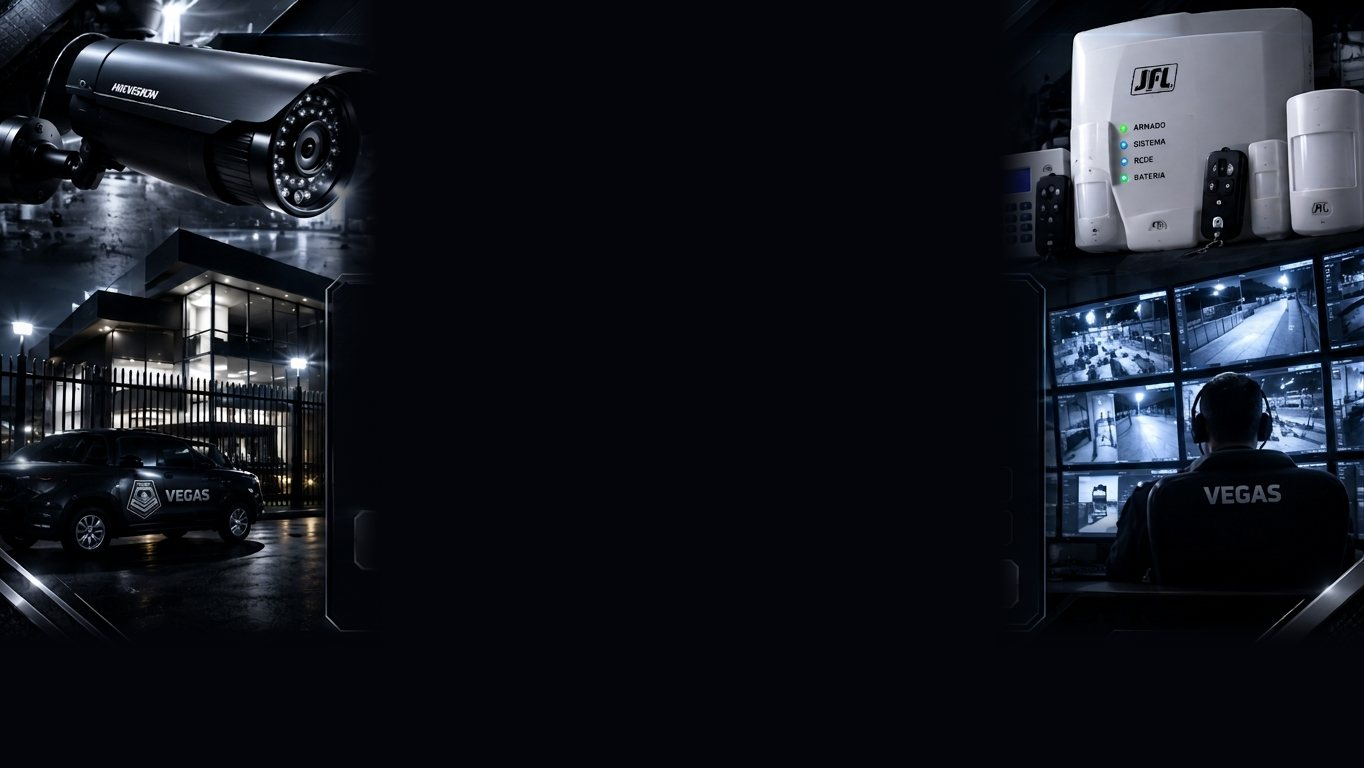
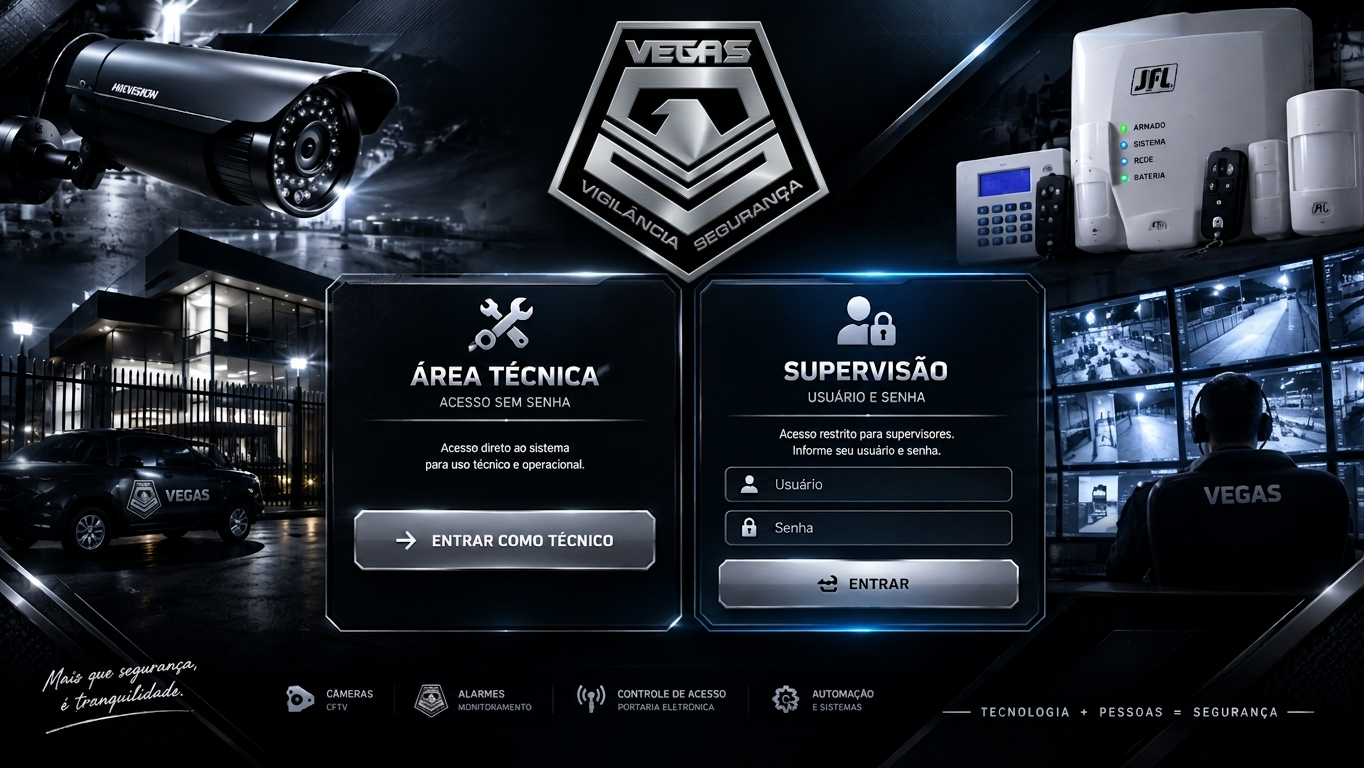
fundo

diff --git a/css/style.css b/css/style.css
@@ -904,3 +904,104 @@ html.is-saving::after {
   .lx__lema { justify-self: center; font-size: .62rem; letter-spacing: .16em; }
 }
 .lx__lema { white-space: nowrap; }
+
+/* =========================================================
+   LOGIN v2 — arte inteira na tela larga + cartões brilhantes
+   ========================================================= */
+/* ---- Tela larga: a arte é a tela (1364 × 768) ---- */
+.lxa {
+  min-height: 100vh; min-height: 100dvh; display: grid; place-items: center; overflow: hidden; position: relative;
+  background: #03050a;
+}
+.lxa::before { /* preenche as sobras da tela com a própria arte desfocada */
+  content: ""; position: absolute; inset: -40px; background: url("../assets/login-fundo.jpg") center / cover no-repeat;
+  filter: blur(26px) brightness(.45) saturate(1.1); transform: scale(1.08);
+}
+.lxa__stage {
+  --W: 1364; --H: 768;
+  position: relative; z-index: 1;
+  width: min(100vw, calc(100dvh * 1364 / 768)); width: min(100vw, calc(100vh * 1364 / 768));
+  aspect-ratio: 1364 / 768;
+  background: url("../assets/login-fundo.jpg") center / 100% 100% no-repeat;
+  box-shadow: 0 0 80px rgba(0,0,0,.8);
+  container-type: inline-size;
+  animation: rise .5s var(--ease) both;
+}
+@supports (height: 100dvh) { .lxa__stage { width: min(100vw, calc(100dvh * 1364 / 768)); } }
+/* posições em % da arte: left = x/1364, top = y/768 */
+.lxa-hot, .lxa-in, .lxa-eye, .lxa-cont { position: absolute; }
+.lxa-hot {
+  display: flex; align-items: center; justify-content: center; gap: .5em;
+  border: 0; padding: 0; margin: 0; background: transparent; cursor: pointer; border-radius: .45cqw;
+  transition: background .2s, box-shadow .2s; color: #fff; font: 700 1.05cqw/1 var(--font-display); text-transform: uppercase; letter-spacing: .05em;
+}
+.lxa-hot:hover, .lxa-hot:focus-visible {
+  background: rgba(255,255,255,.14); outline: none;
+  box-shadow: 0 0 0 1px rgba(255,255,255,.7), 0 0 1.6cqw rgba(120,170,255,.75), 0 0 3.5cqw rgba(47,125,255,.45);
+}
+.lxa-hot:active { background: rgba(255,255,255,.22); }
+.lxa-hot[disabled] { background: rgba(10,13,19,.9); box-shadow: 0 0 0 1px rgba(255,255,255,.5); cursor: default; }
+.lxa-hot .spinner { width: 1.3cqw; height: 1.3cqw; }
+.lxa-hot--tec { left: 26.03%; top: 66.54%; width: 21.99%; height: 7.55%; }
+.lxa-hot--ent { left: 52.79%; top: 72.92%; width: 21.84%; height: 6.25%; }
+.lxa-in {
+  height: 3.39%; border: 0; outline: none; border-radius: .25cqw;
+  background: linear-gradient(180deg, rgb(7,15,24), rgb(9,20,31));
+  color: #eef3f9; font: 500 1.02cqw/1 var(--font-body); padding: 0 .75cqw; letter-spacing: .01em;
+}
+.lxa-in::placeholder { color: #c4ccd6; opacity: 1; }
+.lxa-in:focus { box-shadow: 0 0 0 1px rgba(160,195,255,.8), 0 0 1.2cqw rgba(47,125,255,.55); }
+.lxa-in--user { left: 56.16%; top: 61.33%; width: 17.6%; }
+.lxa-in--pass { left: 56.16%; top: 66.93%; width: 15.2%; }
+.lxa-eye {
+  left: 71.5%; top: 66.93%; width: 2.3%; height: 3.39%; border: 0; padding: 0; cursor: pointer; border-radius: .25cqw;
+  background: rgb(8,17,27); color: #9fb0c4; display: grid; place-items: center;
+}
+.lxa-eye .icon { width: 1.15cqw; height: 1.15cqw; }
+.lxa-eye:hover { color: #fff; }
+.lxa-cont {
+  left: 26.03%; top: 75.6%; width: 21.99%; height: 3.6%; border: 0; background: transparent; cursor: pointer;
+  color: #b9c4d2; font: 500 .9cqw/1 var(--font-body); text-align: center; border-radius: .3cqw;
+}
+.lxa-cont b { color: #fff; font-weight: 600; }
+.lxa-cont:hover, .lxa-cont:focus-visible { color: #fff; background: rgba(255,255,255,.07); outline: none; }
+
+/* ---- Celular / tela do técnico: fundo da arte desfocado + cartões com borda brilhante ---- */
+.lx__bg {
+  background: #03050a !important; overflow: hidden;
+}
+.lx__bg::before {
+  content: ""; position: absolute; inset: -30px;
+  background: url("../assets/login-fundo.jpg") center / cover no-repeat;
+  filter: blur(12px) brightness(.5) saturate(1.15); transform: scale(1.06);
+}
+.lx__bg::after {
+  content: ""; position: absolute; inset: 0;
+  background:
+    radial-gradient(70% 50% at 50% 45%, rgba(3,5,10,.55), rgba(3,5,10,.15) 70%, transparent),
+    linear-gradient(180deg, rgba(3,5,10,.2), rgba(3,5,10,.1) 40%, rgba(3,5,10,.75) 100%);
+}
+.lx-card {
+  border: 1.5px solid transparent !important;
+  background:
+    linear-gradient(180deg, rgba(14,19,28,.93), rgba(4,6,11,.96)) padding-box,
+    linear-gradient(155deg, #f4f7fb 0%, #6d7a8c 18%, #1b2330 42%, #2a3546 60%, #9fb4cf 84%, #ffffff 100%) border-box !important;
+  box-shadow:
+    0 0 0 1px rgba(0,0,0,.75),
+    0 0 18px -2px rgba(60,140,255,.6),
+    0 0 48px -8px rgba(47,125,255,.45),
+    0 30px 60px -25px rgba(0,0,0,.95),
+    inset 0 0 26px rgba(47,125,255,.07),
+    inset 0 1px 0 rgba(255,255,255,.12) !important;
+}
+.lx-card::before { /* brilho azul no topo */
+  content: ""; position: absolute; left: 18%; right: 18%; top: -1.5px; height: 2px; border-radius: 2px;
+  background: linear-gradient(90deg, transparent, #7fb2ff, #ffffff, #7fb2ff, transparent);
+  box-shadow: 0 0 12px #3d8bff, 0 0 26px rgba(61,139,255,.7);
+}
+.lx-card::after { left: 8% !important; right: 8% !important; height: 2px !important; box-shadow: 0 0 14px #2f7dff, 0 0 30px rgba(47,125,255,.6) !important; }
+.lx-card__head::after { background: linear-gradient(90deg, transparent, rgba(160,195,255,.8), transparent) !important; box-shadow: 0 0 8px rgba(80,150,255,.6); }
+.lx-card h2 { background: linear-gradient(180deg, #ffffff 30%, #b9c2ce 75%, #eef2f6); -webkit-background-clip: text; background-clip: text; color: transparent !important; }
+.lx-btn { border-color: rgba(255,255,255,.8) !important; box-shadow: 0 8px 22px -8px rgba(0,0,0,.9), inset 0 1px 0 #fff, 0 0 0 1px rgba(0,0,0,.6), 0 0 22px -2px rgba(90,160,255,.65) !important; }
+.lx-card h2 { text-shadow: none !important; filter: drop-shadow(0 2px 6px rgba(0,0,0,.85)); }
+@media (min-width: 900px) { .lx__bg::before { filter: blur(4px) brightness(.5) saturate(1.1); transform: scale(1.02); } }

diff --git a/js/app.js b/js/app.js
@@ -135,6 +135,8 @@
   /* ---------- LOGIN ---------- */
   // Arte de fundo: assets/login-fundo.jpg (se não existir, fica o fundo escuro padrão)
   // Escudo: assets/login-escudo.png
+  // Tela larga o bastante para mostrar a arte inteira com os campos legíveis
+  const LOGIN_ARTE = window.matchMedia('(min-width: 900px) and (min-height: 500px)');
   const LOGIN_TAGS = [
     ['camera', 'Câmeras', 'CFTV'],
     ['shield', 'Alarmes', 'Monitoramento'],
@@ -190,7 +192,27 @@
 
     /* ----- Tela principal: Área técnica + Supervisão ----- */
     const ult = S().read('last_tecnico', null);
-    app().innerHTML = loginFrame(`
+    const arte = LOGIN_ARTE.matches;
+    if (arte) {
+      // Tela larga: a arte inteira (assets/login-fundo.jpg) é a tela; os campos e botões
+      // ficam por cima dos desenhados na arte, nas mesmas posições.
+      app().innerHTML = `
+        <main class="lxa">
+          <div class="lxa__stage">
+            <a class="lxa-hot lxa-hot--tec" href="#/login/tecnico" aria-label="Entrar como técnico"></a>
+            ${ult ? `<button type="button" class="lxa-cont" id="lg-cont">Continuar como <b>${VG.esc(ult.nome.split(' ')[0])}</b> ›</button>` : ''}
+            <form id="login-form" novalidate autocomplete="on">
+              <label for="lg-user" class="sr-only">Usuário</label>
+              <input id="lg-user" class="lxa-in lxa-in--user" name="username" placeholder="Usuário" autocomplete="username" autocapitalize="none" spellcheck="false" required>
+              <label for="lg-pass" class="sr-only">Senha</label>
+              <input id="lg-pass" class="lxa-in lxa-in--pass" type="password" name="password" placeholder="Senha" autocomplete="current-password" required>
+              <button type="button" class="lxa-eye" id="lg-eye" aria-label="Mostrar senha" title="Mostrar senha">${VG.icon('eye')}</button>
+              <div class="sr-only" id="lg-err" role="alert"></div>
+              <button type="submit" class="lxa-hot lxa-hot--ent" id="lg-btn" aria-label="Entrar"><span class="lxa-busy"></span></button>
+            </form>
+          </div>
+        </main>`;
+    } else app().innerHTML = loginFrame(`
       <div class="lx-cards">
         <section class="lx-card">
           <div class="lx-card__head">
@@ -219,6 +241,8 @@
           </form>
         </section>
       </div>`);
+    // ao girar o tablet / redimensionar a janela, troca de versão
+    LOGIN_ARTE.onchange = () => { if (/^#\/login(\/supervisora)?$|^#?$/.test(location.hash || '#/login') && !VG.Auth.current()) renderLogin(modo); };
     const c = VG.$('#lg-cont');
     if (c) c.onclick = () => entrarTecnico(ult, c);
 
@@ -237,7 +261,7 @@
     VG.$('#login-form').onsubmit = (e) => {
       e.preventDefault();
       err.textContent = '';
-      if (!user.value.trim() || !pass.value) { err.textContent = 'Informe usuário e senha.'; return; }
+      if (!user.value.trim() || !pass.value) { err.textContent = 'Informe usuário e senha.'; if (arte) { VG.toast('Informe usuário e senha.', 'warn'); (user.value.trim() ? pass : user).focus(); } return; }
       const btn = VG.$('#lg-btn');
       VG.setBusy(btn, true, 'Entrando…');
       (async () => {
@@ -245,8 +269,9 @@
         if (!r.ok) {
           VG.setBusy(btn, false);
           err.textContent = r.erro;
+          if (arte) VG.toast(r.erro, 'error', 5000);
           pass.value = ''; pass.focus();
-          btn.closest('.lx-card').animate([{ transform: 'translateX(0)' }, { transform: 'translateX(-8px)' }, { transform: 'translateX(8px)' }, { transform: 'translateX(0)' }], { duration: 260 });
+          btn.closest('.lx-card, .lxa__stage').animate([{ transform: 'translateX(0)' }, { transform: 'translateX(-8px)' }, { transform: 'translateX(8px)' }, { transform: 'translateX(0)' }], { duration: 260 });
           return;
         }
         if (r.session.papel === 'tecnico') S().write('last_tecnico', { id: r.session.tecnicoId, nome: r.session.nome });
